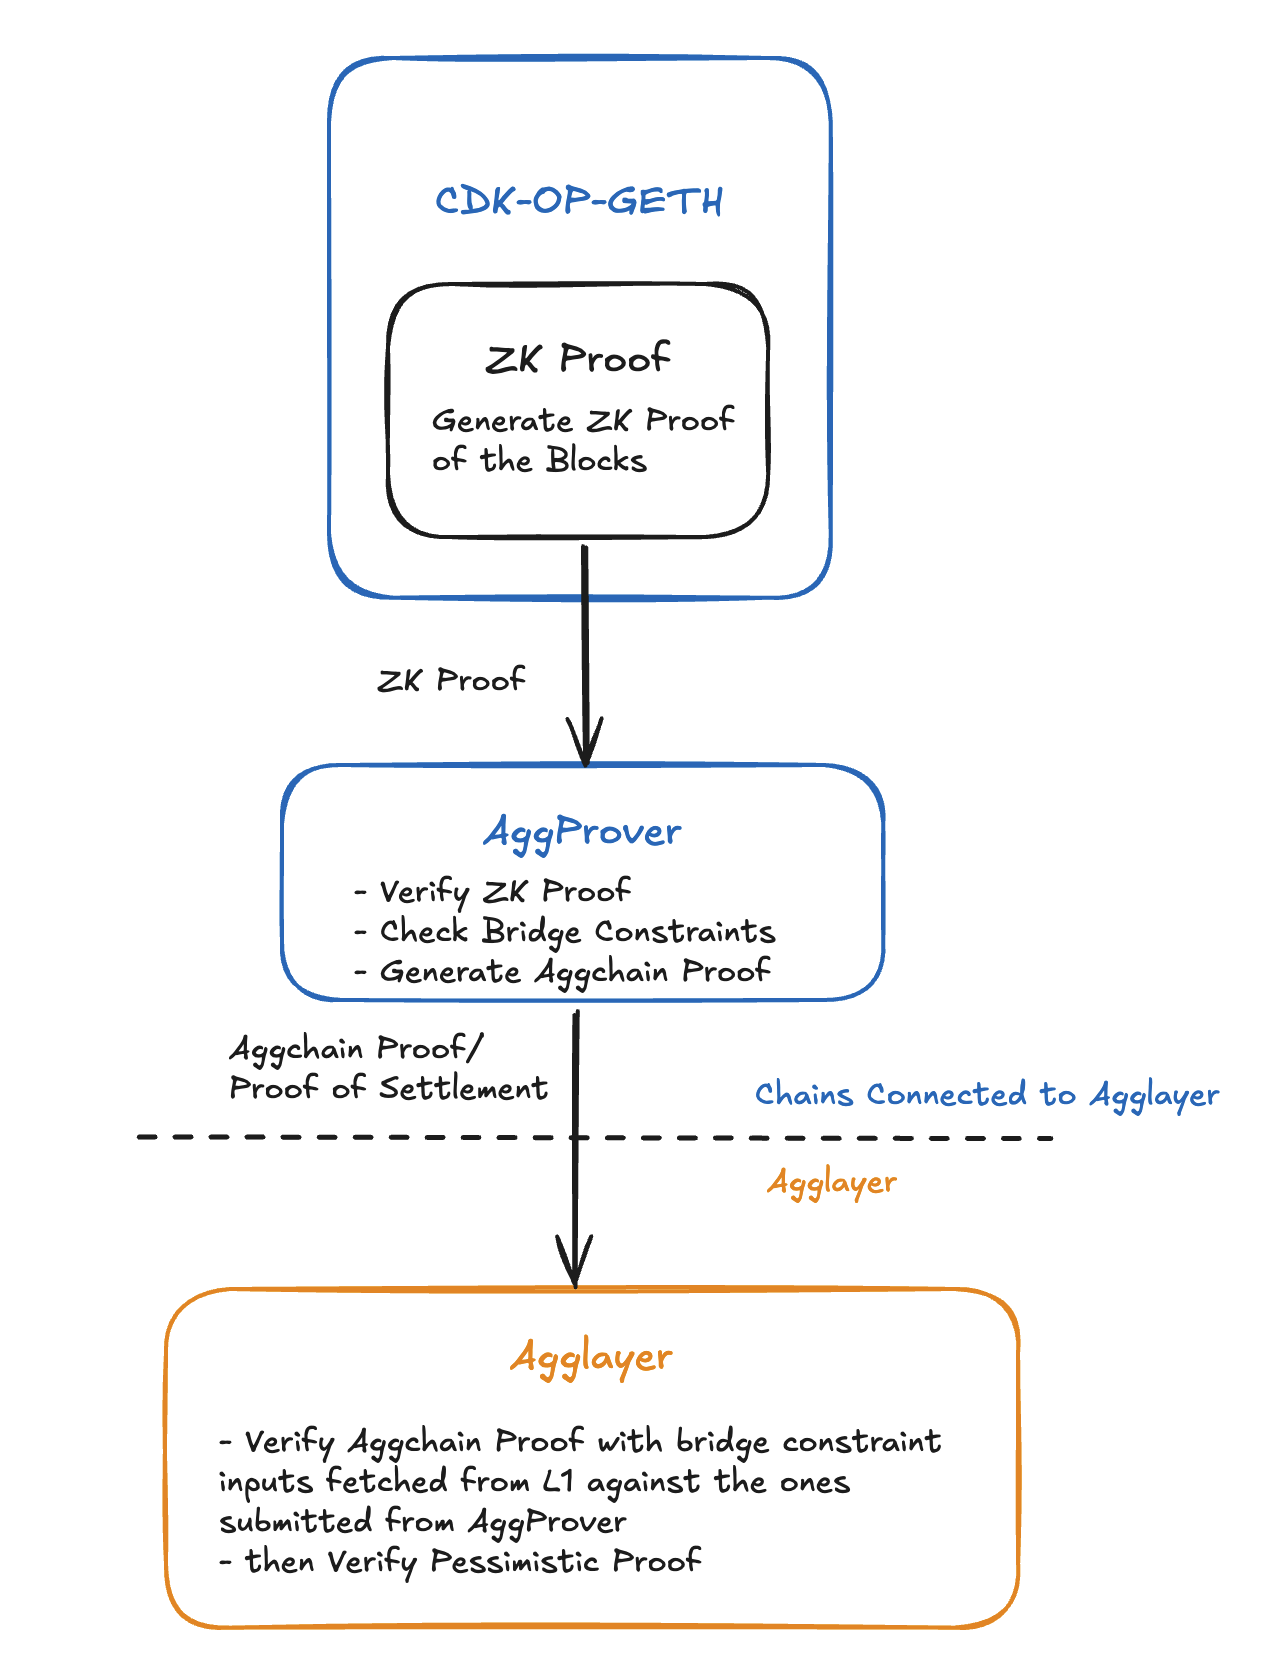
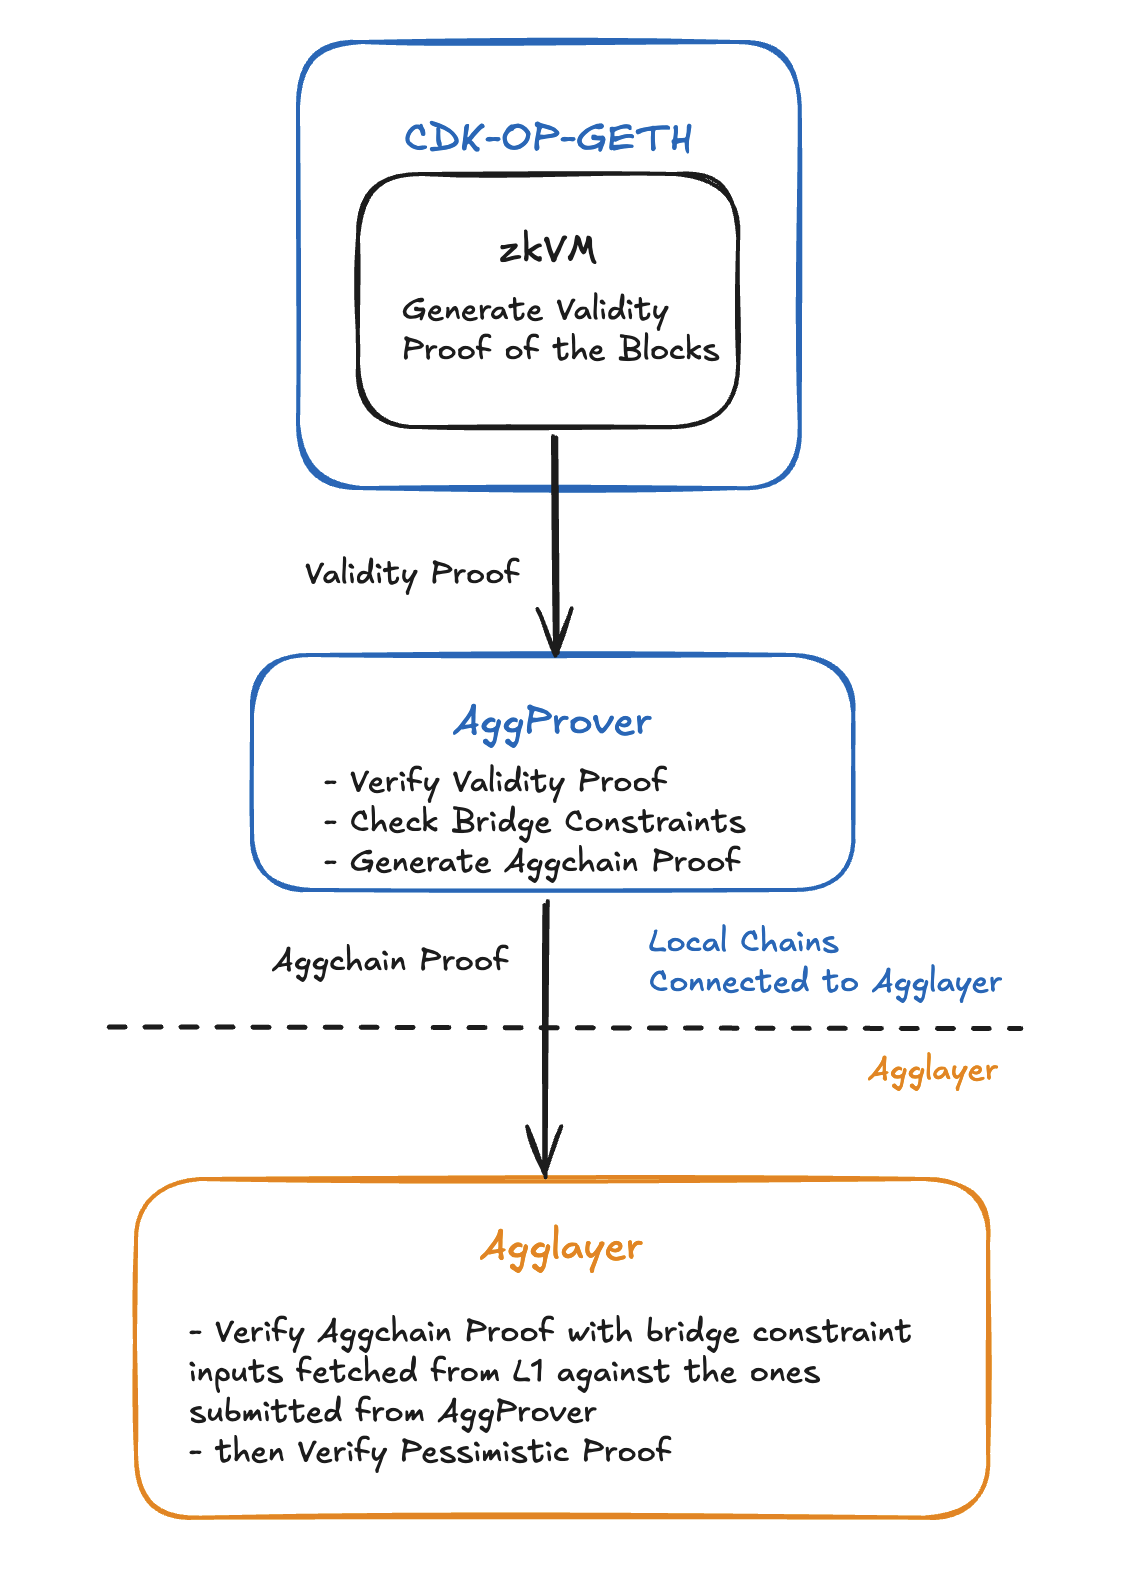
finished with the doc

diff --git a/README.md b/README.md
@@ -30,7 +30,7 @@ For a more detailed understanding of the Pessimistic Proof architecture, impleme
 
 Proof of Settlement is a fundamental concept in Agglayer that ensures the security and validity of cross-chain operations. Think of it as a comprehensive verification system that works in two layers:
 
-1. **Internal Settlement Verification(ZK Proof)**: This layer verifies that each chain's internal state transitions are valid. It's like checking that all transactions within a chain are properly executed and the chain's state is consistent. This is done via ZK Proof: A detailed verification of every operation in the chain, and other verification type can be added in the future.
+1. **Internal Settlement Verification(Validity Proof)**: This layer verifies that each chain's internal state transitions are valid. It's like checking that all transactions within a chain are properly executed and the chain's state is consistent. This is done via Validity Proof: A detailed verification of every operation in the chain, and other verification type can be added in the future.
 
 2. **Cross-Chain Settlement Verification(Aggchain Proof & Pessimistic Proof)**: This layer verifies that cross-chain operations (like asset transfers between chains) are valid. It ensures that when assets move between chains, the operations are atomic and secure.
 
@@ -92,6 +92,27 @@ pub struct BridgeWitness {
     pub new_l2_block_sketch: EvmSketchInput,
 }
 
+// Returning values of AggProver
+pub struct AggchainProofPublicValues {
+    /// Previous local exit root.
+    pub prev_local_exit_root: Digest,
+
+    /// New local exit root.
+    pub new_local_exit_root: Digest,
+
+    /// L1 info root used to import bridge exits.
+    pub l1_info_root: Digest,
+
+    /// Origin network for which the proof was generated.
+    pub origin_network: NetworkId,
+
+    /// Commitment to the imported bridge exits indexes.
+    pub commit_imported_bridge_exits: Digest,
+
+    /// Chain-specific commitment forwarded by the PP.
+    pub aggchain_params: Digest,
+}
+
 /* -------- Agglayer Pessimistic Proof input data -------- */
 // AggchainData for Pessimistic Proof in Agglayer
 pub enum AggchainData {
@@ -113,7 +134,7 @@ pub enum AggchainData {
 ```
 
 ### Execution
-1. Aggchain Proof will first verify local chain's ECDSA signature or zk proof, which will explained in the next section
+1. Aggchain Proof will first verify local chain's ECDSA signature or Validity Proof, which will explained in the next section
 2. Then it will verify the bridge constraints
 
 ```rust
@@ -200,11 +221,11 @@ pub fn verify(
 }
 ```
 
-## ZK Proof Verification
+## Validity Proof Verification
 
 ### Description
 
-The ZK Proof(Full execution proof, aka `fep` in the Codebase) is a more advanced consensus mechanism that provides comprehensive verification of chain operations. Unlike the simpler ECDSA approach, ZK Proof is a proof system that verifies every aspect of a chain's state transition, in this case `op-geth` operations and verify bridge constraints. This system is particularly useful for chains that need to prove their entire state transition is valid, not just that it was authorized by a trusted party. Then Aggchain Proof will combine ZK Proof state transition proofs with bridge checks to ensure both internal chain operations and cross-chain transfers are valid.
+The Validity Proof(Full execution proof, aka `fep` in the Codebase) is a more advanced consensus mechanism that provides comprehensive verification of chain operations. Unlike the simpler ECDSA approach, Validity Proof is a proof system that verifies every aspect of a chain's state transition, in this case `op-geth` operations and verify bridge constraints. This system is particularly useful for chains that need to prove their entire state transition is valid, not just that it was authorized by a trusted party. Then Aggchain Proof will combine Validity Proof state transition proofs with bridge checks to ensure both internal chain operations and cross-chain transfers are valid.
 
 ### Execution
 
@@ -221,7 +242,7 @@ The verification process happens in two main steps:
    - Validate that all claims in the state transition are legitimate
 
 ```rust
-// ZK Proof Verification Code
+// Validity Proof Verification Code
 pub fn verify( 
     &self,
     l1_info_root: Digest,
@@ -263,42 +284,67 @@ Here's more info on [AggOracle](https://github.com/BrianSeong99/Agglayer_Aggkit?
 
 ## How It Works
 
-### Step 1: Initial State Verification
-1. Verify previous local exit root
-2. Check pessimistic root validity
-3. Validate L1 info root
-4. Confirm origin network
+```mermaid
+sequenceDiagram
+    participant Local as Local Chain
+    participant AggProver as AggProver
+    participant Agglayer as Agglayer
 
-### Step 2: Proof Generation and Verification
-1. Generate aggchain proof
-   - For ECDSA: Create and verify signature
-   - For Generic: Generate SP1 proof
-2. Verify proof validity
-3. Check version consistency
-4. Validate state transitions
+    %% Step 1
+    Note over Local: Step 1: State Transition Validation
+    Local->>Local: Confirm on State Transition
+    Local->>Local: Generate Validity Proof or ECDSA Signature of the state transition
 
-### Step 3: Bridge Constraint Verification
-1. Verify imported bridge exits
-2. Check global exit roots
-3. Validate bridge operations
-4. Confirm state consistency
+    %% Step 2
+    Note over AggProver: Step 2: AggProver Aggchain Proof
+    Local->>AggProver: Submit Validity Proof / Signature
 
-### Step 4: State Update
-1. Update local exit root
-2. Modify pessimistic root
-3. Update bridge state
-4. Commit changes
+    AggProver->>AggProver: Verify Validity Proof or ECDSA Signature
 
-### Error Handling
-The system handles various error scenarios:
-- Invalid signatures
-- Inconsistent payload versions
-- Invalid signers
-- Height overflow
-- Balance overflows/underflows
-- Invalid bridge exits
+    AggProver->>AggProver: Verify GER Insert/Remove Stack
+    AggProver->>AggProver: Verify Claimed & Unset Hashchains
+    AggProver->>AggProver: Verify Local Exit Root
+    AggProver->>AggProver: Verify commit_imported_bridge_exits
+    AggProver->>AggProver: Verify GER Inclusion in L1 Info Root
 
-![Sequence Diagram of v0.3]()
+    %% Step 3
+    Note over Agglayer: Step 3: Agglayer Pessimistic Proof
+    AggProver->>Agglayer: Submit AggchainProof and PublicValues
+
+    Agglayer->>Agglayer: Recompute AggchainProofPublicValues
+    Agglayer->>Agglayer: Verify Aggchain Proof (SP1, vkey)
+
+    Agglayer->>Agglayer: Recompute LET, LBT, NT Changes
+    Agglayer->>Agglayer: Verify Pessimistic Proof and Accepts Local Chain State Transition Certificate
+    Agglayer->>Agglayer: Furtuer faciliate bridging
+```
+
+### Step 1 zkVM: Initial State Transition Validation
+This process happens inside a zkVM, which now runs in SP1 zkVM in `CDK-OP-GETH`, but this is meant to be modular and can support any type of prover.
+
+1. **Generate validity proof / ecdsa signature**: Depending on the chain's security setting with Agglayer, it will generate validity proof that proves the correct internal state transition, or a signature made with the trusted sequencer's private key.
+
+### Step 2: AggProver Aggchain Proof
+This whole section is ran in SP1 zkVM, where it validates the trust from previous step, and additionally validates bridge events data validations, and generate a proof of this entire process.
+
+1. **Verify validity proof / ecdsa signature**: 
+    - For validity proof, its just verifying an SP1 proof, which can be configured into other validity proof to verify. 
+    - For ecdsa signature, is to recover the public key of trusted sequencer from the signature and compare.
+2. **Verify bridge constraints**: 
+    - First is to verify the GER insert sequence and remove sequence which are both recorded in hashchains, two of them together acts as a Stack, recording GER update sequence based on LIFO rule. Removal happens when there's fault GER being inserted, which doesn't happen often.
+    - Second is to verify claimed and unset claims hashchain. Ones that are claimed will be added to the claimed hashchain, the ones that's considered invalid will be added to unset hashchain.
+    - Third is to verify Local Exit Root is indeed the correct one.
+    - Forth is to verify `commit_imported_bridge_exits` created submitted to AggProver is indeed constructed based on the correct claimed bridge events and unset bridge events.
+    - Finally is to verify each inserted GER is properly included in the L1 Info Root through a Merkle proof. Checking Each GER has a valid Merkle proof, The proof leads to the correct L1 Info Root, and The leaf index in the L1 Info Tree is correct.
+3. **Return `AggchainProofPublicValues`**: Execution output of the verification.
+
+### Step 3: Agglayer Pessimistic Proof
+This process is ran in SP1 zkVM, to verify Aggchain Proof and then finally verify Local Chain total Asset balance change based on validated bridge events inputs from Aggchain Proof.
+
+1. **Verify Aggchain Proof**:
+    - Verify Aggchain Proof via recreating `AggchainProofPublicValues` but this time based on information fetched by Agglayer, and verify the Aggchain proof with the recreated value as input and its matching vkey.
+2. **Verify Local Exit Tree, Local Balance Tree, and Nullifier Tree**:
+    - Recompute the state changes happened to LET, LBT, and NT. Compare it against the certificate submitted from the Local Chain's LET.
 
 <!-- 
 ## v0.2 vs v0.3 Comparison
@@ -316,7 +362,7 @@ The system handles various error scenarios:
      - Single verification path
    - **v0.3**:
      - Flexible proof structure through generic aggchains
-     - Multiple verification paths (ECDSA, ZK Proof)
+     - Multiple verification paths (ECDSA, Validity Proof)
      - Enhanced proof generation pipeline
 
 3. **State Management**
